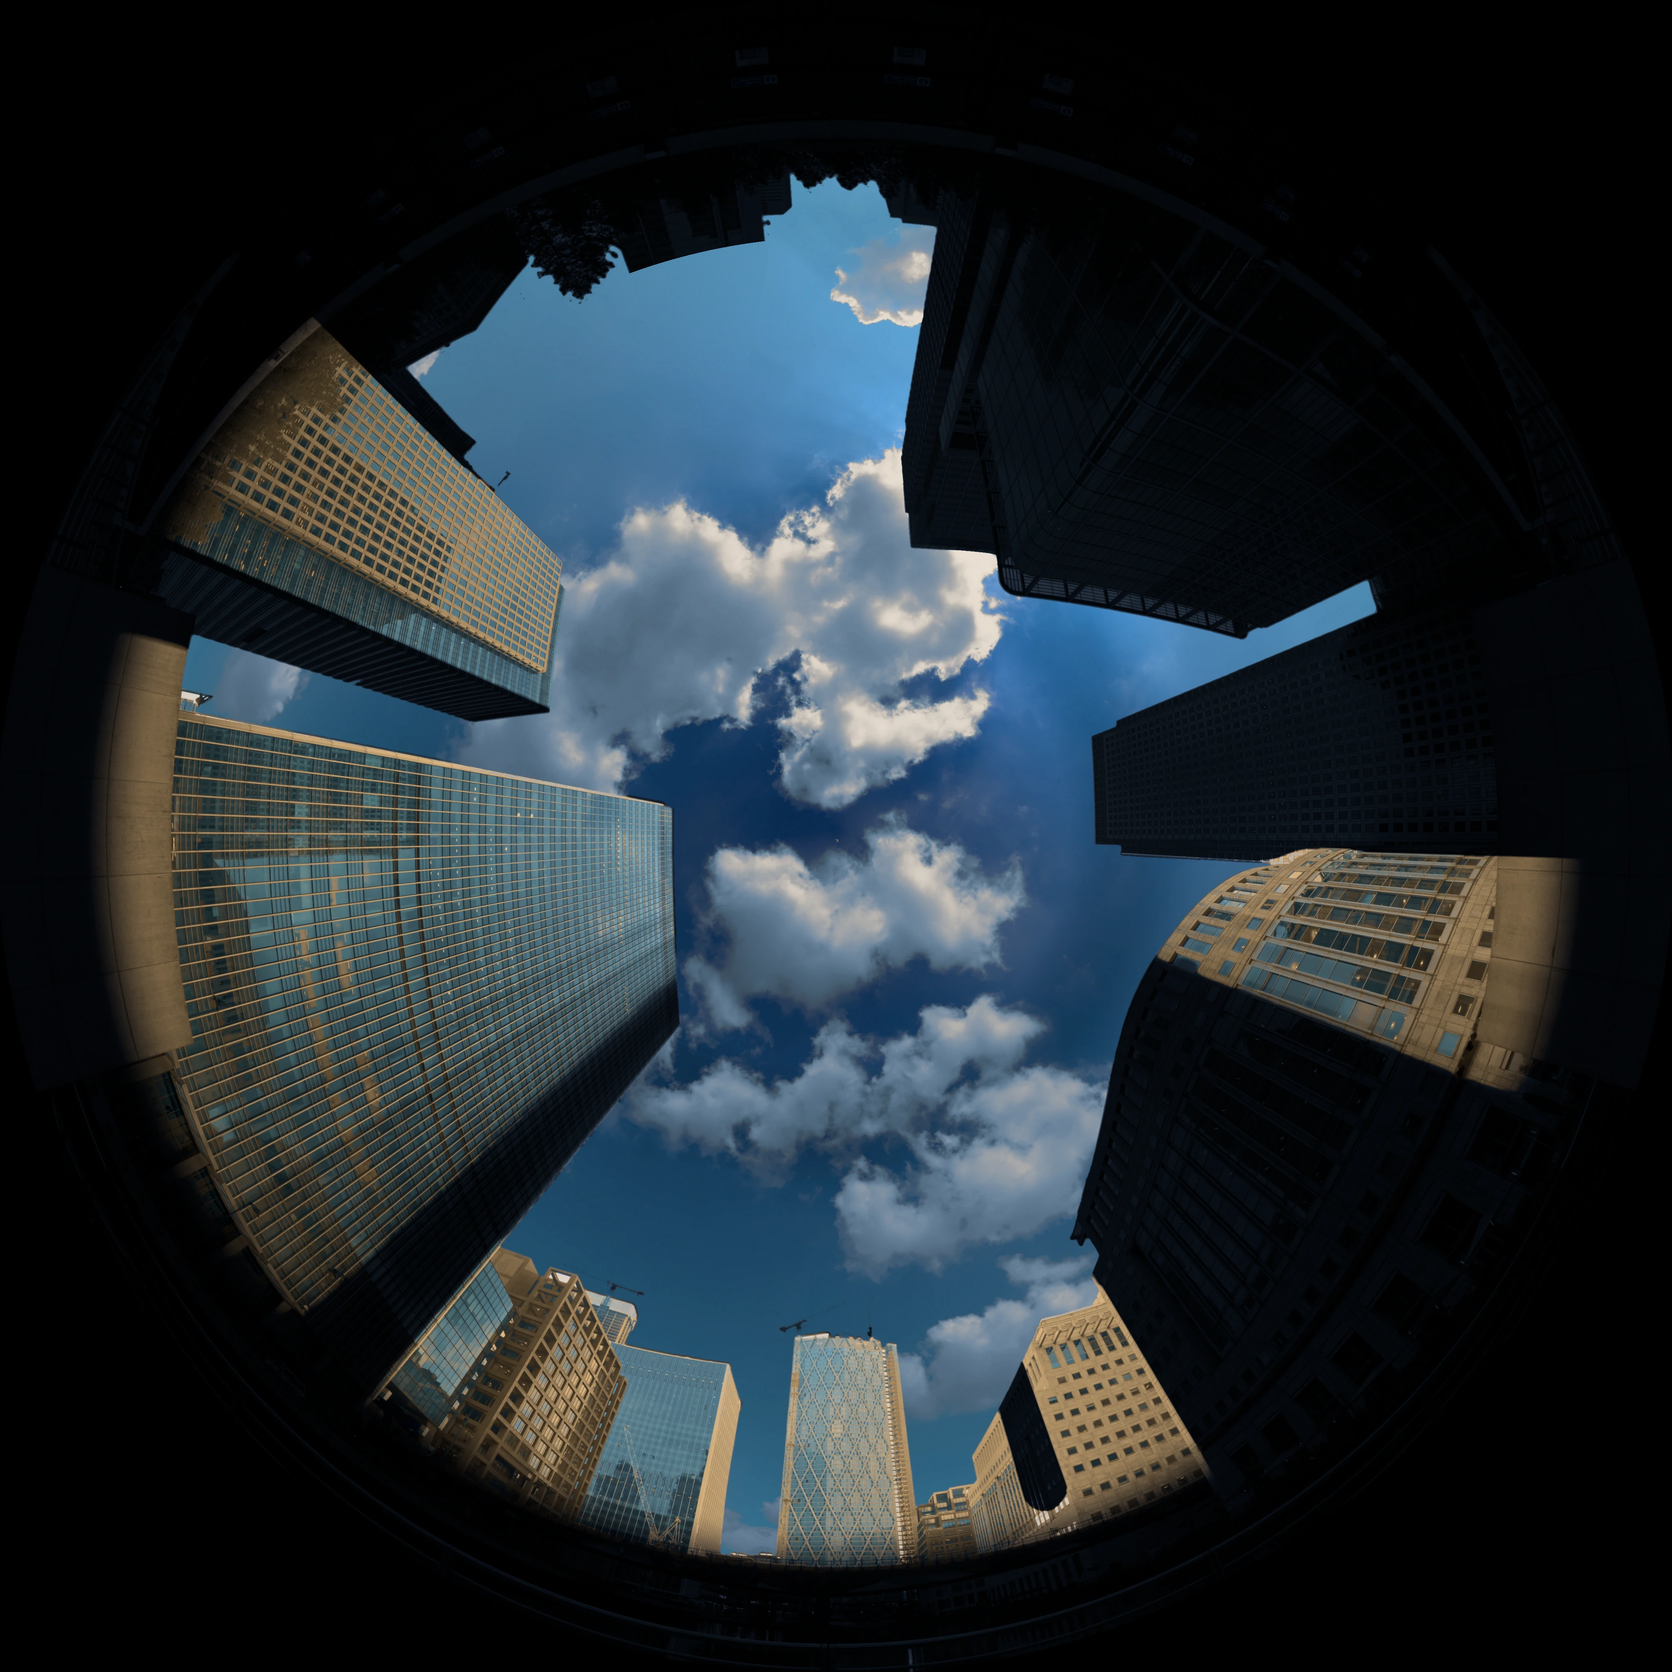
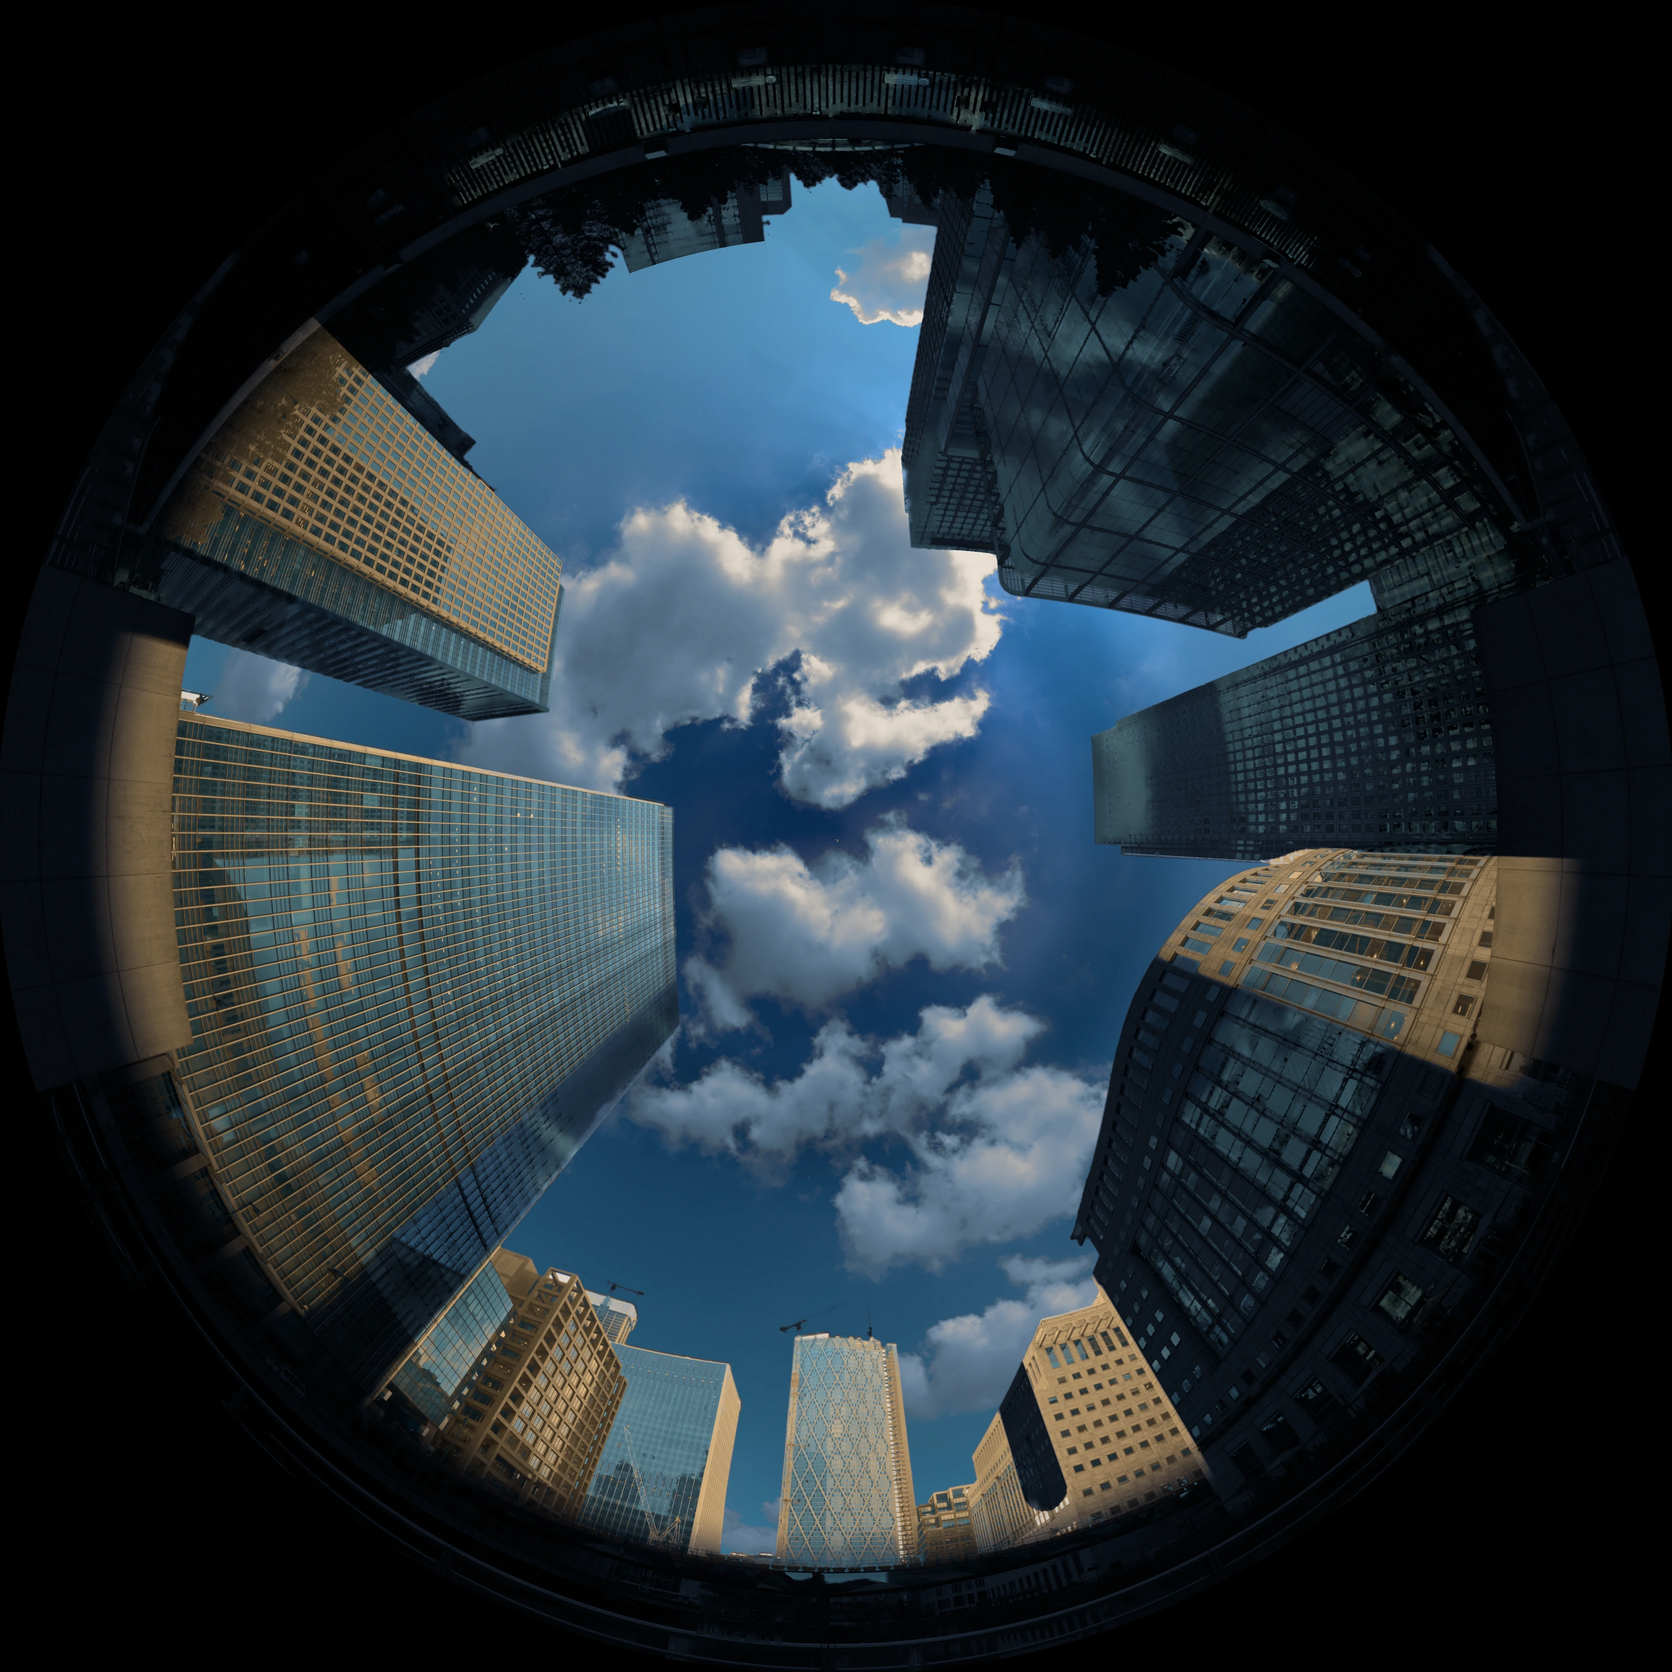
Lab: climb focal-length round 1
Claude-Session: https://claude.ai/code/session_01RqENhngNCzDFmJWDZueXGV

diff --git a/tools/depth/bakes/focal-length/regrade_towers.py b/tools/depth/bakes/focal-length/regrade_towers.py
@@ -1,11 +1,15 @@
 # Regrade the exported plates (export3.py output) toward herb's ref 2: warm,
-# gold-lit sunny faces against near-black shade faces under a cobalt sky,
-# and cumulus whose lower half is skylight blue, not neutral grey. The
-# projection, the sky ramp and the cloud tops are left as they are.
+# gold-lit sunny faces against mid-key cobalt-teal shade glass that mirrors
+# the sky, under a cobalt sky, and cumulus whose lower half is skylight
+# blue, not neutral grey. The projection, the sky ramp and the cloud tops
+# are left as they are.
 # python3 -I regrade_towers.py outer.webp inner.webp outdir '{params}' [debug.png]
 # as published: '{"srcO": "canary4k.npy", "srcI": "canarycrop.npy"}', the
 # 8192 canary cap (cap16.py) downsampled to 4096 and its centre 4608 crop,
-# on export3.py's plates with INNER 4096
+# on export3.py's plates with INNER 4096. The 8192 caps come from cap16.py at
+# 95 degrees; export3.py's inputs from comp.py (outer: the 4096 caps with
+# orient.py's inc4096.npy at roll 60; inner: the centre 4608 crops at TM
+# 53.4375 with litCrop 1 and the outer run's Ymed, cloud Y pct and stray map)
 # Inputs are export3.py's plates, before this pass: running it on the
 # published plates would regrade them twice.
 #
@@ -15,8 +19,9 @@
 # and shade faces cool, so the face-scale warmth (R - B) / (R + G + B),
 # averaged over the tower only, is the sun incidence. Each tower pixel keeps
 # its own luminance texture and is rebuilt as
-#   shade: Y * shGain (-2.3 stops), tinted cobalt (212 deg), so the shade
-#          side sits a hair above the film's toe (about 0.06 on screen);
+#   shade: Y * shGain (-1.1 stops), tinted cobalt (212 deg), so the shade
+#          side reads as dark glass and stone, not a slab at the film's toe;
+#          its glass is a mirror as well (below);
 #   lit:   Y * 2^litStops (+0.7 stop), tinted warm gold (35 deg; S 0.42 in
 #          plate light lands at about 0.38, hue 37, through the film),
 #          its texture around the face mean steepened a little (litCon),
@@ -26,6 +31,24 @@
 # chroma, src*), a little more saturated and with some skylight in it, so
 # teal glass and warm stone sit side by side. Glass in the shade keeps a
 # little more skylight than the stone round it, so windows still read.
+# Shade-side glass also mirrors what is across the street: a vertical facade
+# reflects the ray at the same elevation, its horizontal part mirrored in the
+# face's normal (az' mirrored about the normal's azimuth). The normal is the
+# face-scale mean of the inward radial direction over the tower (nDeg wide),
+# which is how the faces turn toward the camera in a worm's-eye view. The
+# reflected ray leaves the facade, not the camera, so it meets the far side
+# higher up: seen from the camera at tan(elev') = canyon * tan(elev) (3 when
+# both sides of the street stand as far from the camera). The source is the
+# plate as graded without the mirror, so the crowns and upper floors carry
+# the cumulus and the lowest ones the towers opposite, softened rBlur
+# degrees for the panels' waviness, its chroma kept reflKeep, and seen
+# through a teal coating (reflHue, reflSat). Glass reflects rGlass of it (a
+# coated curtain wall; Schlick's rise toward grazing on top), replacing that
+# share of the dark interior and modulated by the pane's own texture round
+# its face mean (rTex), so it never lies on the facade as a flat wash, and
+# the mullions and stone stay dark between the panes. Small holes in the
+# glass key and warm lamps behind it (holeDeg, lampK) are filled from the
+# facade round them, or they would read as dark spots on the mirror.
 # In the sky, every cloud pixel (low saturation) is split-toned by one smooth
 # key on its log luminance: a logistic centred on the 75th percentile of the
 # cloud luminance (cKey), cWidth stops wide, warm-neutral #FFF4E6 above it
@@ -40,13 +63,14 @@ import sys, json, numpy as np, cv2
 from PIL import Image
 LUMA = np.array([0.2126, 0.7152, 0.0722], np.float32)
 P = dict(q=93,
-         shGain=0.2, shGam=1.0, shHue=212.0, shSat=0.42, shKeep=0.2, shFloor=0.0,
+         shGain=0.466, shGam=1.0, shHue=212.0, shSat=0.42, shKeep=0.2, shFloor=0.0,
          litStops=0.7, litHue=35.0, litSat=0.42, litKeep=0.1, litCon=1.15,
          wLo=0.0, wHi=0.07, wClip=0.12, incDeg=0.35,
          cHue=208.0, cSat=0.36, cAmt=1.0, cKey=75, cWidth=0.28, topHex='#fff4e6', cS0=0.5, cS1=0.3,
          innerDeg=47.5, srcO='', srcI='', gW0=-0.13, gW1=-0.24, gBlur=1.0,
          glassSat=1.15, glassY=0.75, glassHue=178.0, glassSky=0.5, shGlass=0.6, shGlassKeep=0.5,
-         yGuard0=0.28, yGuard1=0.4, hiKnee=0.625, hiCeil=1.0)
+         yGuard0=0.28, yGuard1=0.4, hiKnee=0.625, hiCeil=1.0,
+         rGlass=0.3, rBlur=0.15, nDeg=8.0, reflHue=192.0, reflSat=0.3, canyon=3.0, reflKeep=0.4, holeDeg=1.2, holeRim=0.22, lampK=1.8, rTex=0.35, rTexDeg=1.0)
 if len(sys.argv) > 4: P.update(json.loads(sys.argv[4]))
 DBG = sys.argv[5] if len(sys.argv) > 5 else ''
 s2l = lambda v: np.where(v <= 0.04045, v / 12.92, ((v + 0.055) / 1.055) ** 2.4).astype(np.float32)
@@ -119,16 +143,49 @@ Lsun = smooth(P['wLo'], P['wHi'], nblur(warm, tw, P['incDeg'] * ppdO)).astype(np
 Lsun *= 1 - smooth(78, 86, thO)
 LI = cv2.resize(Lsun[c0 - h:c0 + h, c0 - h:c0 + h], (NI, NI), interpolation=cv2.INTER_LINEAR)
 
+# ---- facade normals for the mirror: the face-scale mean of the inward
+# radial direction over the tower, at 1024 on the outer cap (unit: rho)
+NN = 1024
+twq = cv2.resize(tw, (NN, NN), interpolation=cv2.INTER_AREA)
+aq = ((np.arange(NN, dtype=np.float32) + 0.5) - NN / 2) / (NN / 2)
+rq = np.hypot(aq[None, :], aq[:, None]) + 1e-6
+sgq = P['nDeg'] * NN / 2 / 95.0
+NX = nblur(-aq[None, :] / rq, twq, sgq); NY = nblur(-aq[:, None] / rq, twq, sgq)
+nl = np.hypot(NX, NY) + 1e-6; NX = (NX / nl).astype(np.float32); NY = (NY / nl).astype(np.float32)
+
+def mirror_map(N, span):
+    # for each pixel of a plate covering span degrees: the pixel (same plate)
+    # that a vertical glass face there mirrors, and the Fresnel reflectance
+    ax = ((np.arange(N, dtype=np.float32) + 0.5) - N / 2) / (N / 2) * (span / 95.0)
+    x = np.broadcast_to(ax[None, :], (N, N)); y = np.broadcast_to(ax[:, None], (N, N))
+    rho = np.hypot(x, y) + 1e-6; hx, hy = x / rho, y / rho
+    mu = ((x + 1) / 2 * NN - 0.5).astype(np.float32); mv = ((y + 1) / 2 * NN - 0.5).astype(np.float32)
+    nx = cv2.remap(NX, mu, mv, cv2.INTER_LINEAR, borderMode=cv2.BORDER_REPLICATE)
+    ny = cv2.remap(NY, mu, mv, cv2.INTER_LINEAR, borderMode=cv2.BORDER_REPLICATE)
+    d = hx * nx + hy * ny
+    rx = hx - 2 * d * nx; ry = hy - 2 * d * ny
+    # parallax across the street: the reflected ray leaves the facade, not
+    # the camera, so it meets the far side higher up, seen from the camera
+    # at tan(elev') = canyon * tan(elev) (canyon = 3 when both sides stand at
+    # the same distance from the camera)
+    el = np.radians(90 - np.minimum(rho * 95.0, 89.9))
+    rr = (90 - np.degrees(np.arctan(P['canyon'] * np.tan(el)))) / 95.0
+    sc = N / 2 / (span / 95.0)
+    px = (rr * rx * sc + N / 2 - 0.5).astype(np.float32); py = (rr * ry * sc + N / 2 - 0.5).astype(np.float32)
+    ci = np.sin(np.radians(rho * 95.0)) * np.abs(d)
+    R = P['rGlass'] + (1 - P['rGlass']) * (1 - ci) ** 5
+    return px, py, R.astype(np.float32)
+
 # cloud luminance range, from the outer plate's sky
 SsO = 1 - l2s(O).min(-1) / (l2s(O).max(-1) + 1e-5)
 cwO = smooth(P['cS0'], P['cS1'], SsO) * (mO > 0.99) * (thO < 80)
 YO = O @ LUMA
-cpc = np.percentile(YO[cwO > 0.9][::5], [25, 50, P['cKey'], 95])
+cpc = np.percentile(YO[cwO > 0.9][::5], [25, 50, P['cKey'], 95]); del SsO, YO
 print('cloud Y pct 25/50/key/95', cpc.round(4), 'sun share of tower', float((Lsun * tw).sum() / tw.sum()))
 LK = np.log2(cpc[2])
 
 # ---- glass key and the capture's own chroma, from the source cap
-def src_of(path, N):
+def src_of(path, N, ppd):
     if not path: return None
     a = np.load(path, mmap_mode='r')
     if a.shape[0] > N:
@@ -137,18 +194,23 @@ def src_of(path, N):
     if a.shape[0] != N: a = cv2.resize(a, (N, N), interpolation=cv2.INTER_AREA)
     w0 = cv2.GaussianBlur((a[..., 0] - a[..., 2]) / (a.sum(-1) + 1e-3), (0, 0), P['gBlur'] * N / NO)
     kg = smooth(P['gW0'], P['gW1'], w0).astype(np.float32)
+    # lamps behind the glass: warm, and well above the facade round them
+    Ys = a @ LUMA
+    lamp = (w0 > 0) & (Ys > P['lampK'] * cv2.GaussianBlur(Ys, (0, 0), 0.5 * ppd))
+    del Ys
     oc = a / (a @ LUMA + 1e-4)[..., None]
     oc = np.maximum(1 + (oc - 1) * P['glassSat'], 0.05)
-    return kg, (oc / (oc @ LUMA)[..., None]).astype(np.float32)
-SRC_O = src_of(P['srcO'], NO); SRC_I = src_of(P['srcI'], NI)
+    return kg, (oc / (oc @ LUMA)[..., None]).astype(np.float32), lamp
+SRC_O = src_of(P['srcO'], NO, ppdO); SRC_I = src_of(P['srcI'], NI, ppdI)
 
 sh_t = unit(hsv2lin(P['shHue'], P['shSat'])); lit_t = unit(hsv2lin(P['litHue'], P['litSat']))
 cl_t = unit(hsv2lin(P['cHue'], P['cSat']))
 hx = P['topHex']; top_t = unit(s2l(np.array([int(hx[i:i + 2], 16) / 255 for i in (1, 3, 5)], np.float32)))
 gl_t = unit(hsv2lin(P['glassHue'], 0.3))
+rf_t = unit(hsv2lin(P['reflHue'], P['reflSat']))
 print('shade tint', sh_t.round(3), 'lit tint', lit_t.round(3), 'cloud shade', cl_t.round(3))
 
-def grade(X, m, L, ppd, src):
+def grade(X, m, L, ppd, src, span):
     Y = X @ LUMA
     chroma = X / (Y[..., None] + 1e-6)
     # local contrast on lit faces: the face's own texture, around its mean
@@ -160,15 +222,37 @@ def grade(X, m, L, ppd, src):
     if src is not None:
         # glass keeps the capture's cool hue (with some skylight in it); only
         # stone and mullions take the gold
-        kg, oc = src
+        kg, oc, lamp = src
         k3 = kg[..., None]
         cgl = oc + (gl_t - oc) * P['glassSky']
         clit = clit + (cgl - clit) * k3
         Ylit = Ylit * (1 + (P['glassY'] - 1) * kg)
+        # spots on the shade faces: small holes in the glass key (lit
+        # interiors, stickers behind the glass) and lamps (warm, well above
+        # the facade round them, even where they touch a mullion). Mullions
+        # and stone, which run on as one connected net, are not holes. Once
+        # the glass mirrors the sky they would read as dark spots on it, so
+        # the shade term is filled there from the facade round them
+        hole = ((kg < 0.5) & (m < 0.5)).astype(np.uint8)
+        n, lab, st, _ = cv2.connectedComponentsWithStats(hole, connectivity=4)
+        small = np.zeros(n, bool); small[1:] = st[1:, cv2.CC_STAT_AREA] < (P['holeDeg'] * ppd) ** 2
+        hk = small[lab]; del lab
+        n, lab, st, _ = cv2.connectedComponentsWithStats((lamp & (m < 0.5)).astype(np.uint8), connectivity=8)
+        small = np.zeros(n, bool); small[1:] = st[1:, cv2.CC_STAT_AREA] < (P['holeDeg'] * ppd) ** 2
+        hk |= small[lab]; del lab
+        # grown past the key's soft rim, which is dark in the plate too
+        gr = 2 * int(round(P['holeRim'] * ppd)) + 1
+        hk = cv2.dilate(hk.astype(np.uint8), cv2.getStructuringElement(cv2.MORPH_ELLIPSE, (gr, gr)))
+        hk = cv2.GaussianBlur(hk.astype(np.float32), (0, 0), 0.5 * ppd / ppdO)
         csh = csh + (sh_t + (oc - sh_t) * P['shGlassKeep'] - csh) * k3
         Ysh = Ysh * (1 + P['shGlass'] * kg)
+        # each pane mirrors a little differently (flatness, coating): the
+        # mirror carries the glass's own texture round its face mean, so it
+        # never lies on the facade as a flat wash
+        ptex = np.clip(Ysh / (nblur(Ysh, kg + 1e-3, P['rTexDeg'] * ppd) + 1e-6), 0.25, 4.0) ** P['rTex']
     L3 = L[..., None]
-    T = (1 - L3) * csh * Ysh[..., None] + L3 * clit * Ylit[..., None]
+    Tsh = csh * Ysh[..., None]; Tlit = clit * Ylit[..., None]
+    del chroma, csh, clit, Ysh, Ylit, Yf
     # sky: one smooth luminance key splits every cloud pixel between the
     # warm-neutral shoulder and skylight blue, at its own luminance
     Ss = 1 - l2s(X).min(-1) / (l2s(X).max(-1) + 1e-5)
@@ -176,21 +260,39 @@ def grade(X, m, L, ppd, src):
     kk = (1 / (1 + np.exp(-(np.log2(np.maximum(Y, 1e-5)) - LK) / P['cWidth'])))[..., None]
     tgt = (cl_t + (top_t - cl_t) * kk) * Y[..., None]
     Sk = X + (tgt - X) * cw
+    del Ss, cw, kk, tgt
     # cloud tops the matte missed (bright, warm, beside a crown) are never
     # tower: nothing on a facade is that bright
     tw = (1 - m) * (1 - smooth(P['yGuard0'], P['yGuard1'], Y))
     # the lifted faces go under the clouds' own shoulder (comp.py's, in plate
     # light); the sky already sits under it and is not rolled off twice
-    Mx = T.max(-1); k1, c1 = P['hiKnee'], P['hiCeil']
-    tq = np.maximum(Mx - k1, 0) / (c1 - k1)
-    Mn = np.where(Mx < k1, Mx, k1 + (c1 - k1) * tq / (1 + tq))
-    T = T * (Mn / (Mx + 1e-6))[..., None]
-    out = Sk * (1 - tw)[..., None] + T * tw[..., None]
-    return np.maximum(out, 0)
+    def comp(Tsh):
+        T = (1 - L3) * Tsh + L3 * Tlit
+        Mx = T.max(-1); k1, c1 = P['hiKnee'], P['hiCeil']
+        tq = np.maximum(Mx - k1, 0) / (c1 - k1)
+        Mn = np.where(Mx < k1, Mx, k1 + (c1 - k1) * tq / (1 + tq))
+        T = T * (Mn / (Mx + 1e-6))[..., None]
+        return np.maximum(Sk * (1 - tw)[..., None] + T * tw[..., None], 0)
+    out = comp(Tsh)
+    if src is None or P['rGlass'] <= 0:
+        return out
+    # shade-side glass mirrors the plate across the street (see the header)
+    px, py, R = mirror_map(X.shape[0], span)
+    Rs = cv2.GaussianBlur(out, (0, 0), P['rBlur'] * ppd); del out
+    refl = cv2.remap(Rs, px, py, cv2.INTER_LINEAR, borderMode=cv2.BORDER_REFLECT); del Rs, px, py
+    rY = refl @ LUMA
+    refl = rY[..., None] + (refl - rY[..., None]) * P['reflKeep']
+    rk = R[..., None] * src[0][..., None]
+    Tsh = Tsh * (1 - rk) + rk * rf_t * refl * ptex[..., None]; del refl, rk, ptex
+    wf = ((1 - hk) * (1 - m)).astype(np.float32)
+    Tf = np.stack([nblur(Tsh[..., c], wf, 0.3 * ppd) for c in range(3)], -1)
+    Tsh += (Tf - Tsh) * hk[..., None]; del Tf, wf
+    return comp(Tsh)
 
-On = grade(O, mO, Lsun, ppdO, SRC_O)
+On = grade(O, mO, Lsun, ppdO, SRC_O, 95.0)
 On *= (thO < 95 * 1.004)[..., None]
-In = grade(I, mI, LI, ppdI, SRC_I)
+del O, SRC_O
+In = grade(I, mI, LI, ppdI, SRC_I, RID)
 def save(X, path, seed):
     v = l2s(X)
     rng = np.random.default_rng(seed)

diff --git a/tools/depth/bakes/focal-length/clone_cap.py b/tools/depth/bakes/focal-length/clone_cap.py
@@ -1,4 +1,4 @@
-# Clone two distractions out of the published outer plate (regrade_towers.py
+# Clone three distractions out of the published outer plate (regrade_towers.py
 # output), the last pass before the plate ships:
 #
 #  1. the crown of the distant tower straight "up" the plate (towards the
@@ -15,6 +15,11 @@
 #     x(y) is fitted through them, and only letter pixels inside a narrow
 #     band round that curve are inpainted, so the dark slot they ran along
 #     stays.
+#  3. a crane jib floating in clear sky just past the crown of the stone
+#     tower at the top left (it reads as a stray stick in the 12 mm frame).
+#     Pixels in its box a tenth darker than a cubic fitted to the clear sky
+#     round it, in blobs with nothing but sky round them (the crown enters
+#     the box at a corner), are inpainted from that sky.
 #
 # python3 -I clone_cap.py outer_in.webp outer_out.webp [debug.png]
 # Run it on regrade_towers.py's outer.webp, not on an already-cloned plate.
@@ -102,6 +107,44 @@ fixed = np.zeros(V.shape, bool)
 fixed |= alpha > 0.01
 dbg[m] = 255
 print('crown px', int(m.sum()))
+
+# ---- 3. the crane jib by the stone tower's crown
+CX0, CX1, CY0, CY1 = (int(round(v * sc)) for v in (1190, 1280, 1125, 1220))
+cbox = np.zeros(V.shape, bool)
+cbox[CY0:CY1, CX0:CX1] = True
+cring = np.zeros(V.shape, bool)
+cring[CY0 - 60:CY1 + 60, CX0 - 60:CX1 + 60] = True
+csky = cring & (im[..., 2] > im[..., 0] + 0.08) & (V > 0.42) & (S > 0.3)
+cys, cxs = np.nonzero(csky)
+Ac = basis(cxs.astype(np.float32), cys.astype(np.float32))
+ccoefs = [np.linalg.lstsq(Ac, lin[cys, cxs, ch], rcond=None)[0] for ch in range(3)]
+by, bx = np.nonzero(cbox)
+cmodel = np.stack([basis(bx.astype(np.float32), by.astype(np.float32)) @ cf for cf in ccoefs], 1)
+cdark = np.zeros(V.shape, np.uint8)
+cdark[by, bx] = (lin[by, bx] @ LUMA) < 0.9 * (cmodel @ LUMA)
+n, lab, st, _ = cv2.connectedComponentsWithStats(cdark, 8)
+jib = np.zeros(V.shape, bool)
+k9 = np.ones((9, 9), np.uint8)
+for i in range(1, n):
+    # a blob floating in clear sky: the ring round it is all sky
+    blob = lab == i
+    rim = (cv2.dilate(blob.astype(np.uint8), k9) > 0) & ~blob
+    if csky[rim].mean() > 0.9:
+        jib |= blob
+jib = cv2.dilate(jib.astype(np.uint8), k9)
+# the sky there is smooth: inpaint from the sky round it
+j0 = (slice(CY0 - 20, CY1 + 20), slice(CX0 - 20, CX1 + 20))
+J = out.copy()
+reg = np.ascontiguousarray((l2s(out[j0]) * 65535 + 0.5).astype(np.uint16))
+for ch in range(3):
+    reg[..., ch] = cv2.inpaint(np.ascontiguousarray(reg[..., ch]), jib[j0], 6, cv2.INPAINT_TELEA)
+J[j0] = s2l(reg.astype(np.float32) / 65535)
+jib = jib > 0
+ja = np.maximum(cv2.GaussianBlur(jib.astype(np.float32), (0, 0), 1.0), jib)[..., None]
+out = J * ja + out * (1 - ja); del J
+fixed |= ja[..., 0] > 0.01
+dbg[jib] = 255
+print('jib px', int(jib.sum()))
 
 # ---- 2. the ticker
 Y = im @ LUMA
